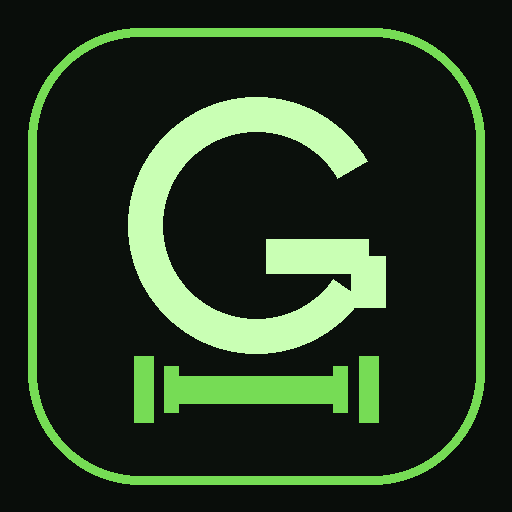
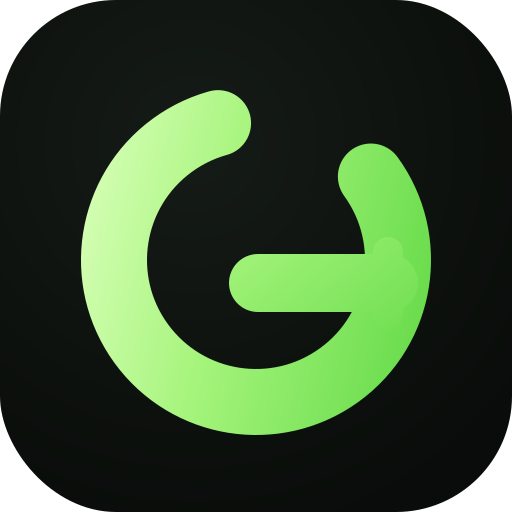
Add files via upload

diff --git a/app.js b/app.js
@@ -1036,11 +1036,11 @@ bodyHistoryModal=function(){
 
 
 /* ===== GYM v6.0 INDIVIDUAL ===== */
-const GYM_V60='6.0.0';
+const GYM_V60='6.1.0';
 let bodyChartPeriod='all';
 
 function brandMark(){
- return `<svg class="gym-mark" viewBox="0 0 120 120" role="img" aria-label="GYM"><rect x="3" y="3" width="114" height="114" rx="30" fill="#0b100c" stroke="#76dc55" stroke-width="4"/><path d="M76 35a30 30 0 1 0 5 39H61" fill="none" stroke="#c9ffb4" stroke-width="9" stroke-linecap="round"/><path d="M61 74h25" stroke="#c9ffb4" stroke-width="9" stroke-linecap="round"/><path d="M25 91h13m44 0h13M38 84v14m44-14v14M42 91h36" fill="none" stroke="#76dc55" stroke-width="7" stroke-linecap="round"/></svg>`;
+ return `<svg class="gym-mark" viewBox="0 0 120 120" role="img" aria-label="GYM"><defs><linearGradient id="gymBrandGradient" x1="25" y1="18" x2="96" y2="104" gradientUnits="userSpaceOnUse"><stop offset="0" stop-color="#d8ffb8"/><stop offset=".42" stop-color="#a5f47b"/><stop offset="1" stop-color="#63d947"/></linearGradient></defs><rect x="3" y="3" width="114" height="114" rx="30" fill="#0b100c"/><circle cx="60" cy="59" r="33" fill="none" stroke="url(#gymBrandGradient)" stroke-width="15" stroke-linecap="round" stroke-dasharray="168 55" transform="rotate(-36 60 59)"/><path d="M61 65h31" fill="none" stroke="url(#gymBrandGradient)" stroke-width="13" stroke-linecap="round"/><path d="M91 58v15" fill="none" stroke="url(#gymBrandGradient)" stroke-width="7" stroke-linecap="round"/></svg>`;
 }
 
 const normalizeStateV60Base=normalizeState;
@@ -1144,11 +1144,11 @@ function progressionDashboard(){
 
 function workoutElapsedSeconds(){if(!state.active)return 0;const now=state.active.pausedAt?+state.active.pausedAt:Date.now();return Math.max(0,Math.floor((now-(+state.active.startedAt||now)-(+state.active.pausedMs||0))/1000))}
 function pauseWorkoutV60(){if(!state.active)return;if(state.active.pausedAt){state.active.pausedMs=(+state.active.pausedMs||0)+(Date.now()-+state.active.pausedAt);state.active.pausedAt=null;toast('Treino retomado.')}else{state.active.pausedAt=Date.now();toast('Treino pausado.')}saveLocal();renderApp()}
-function liveWorkoutStatus(){const sec=workoutElapsedSeconds(),done=(state.active?.exercises||[]).reduce((n,e)=>n+(e.sets||[]).filter(s=>s.done).length,0),total=(state.active?.exercises||[]).reduce((n,e)=>n+(e.sets||[]).length,0);return `<div class="v6-workout-status"><div><small>${state.active?.pausedAt?'TREINO PAUSADO':'TEMPO DE TREINO'} · ${done}/${total} séries concluídas</small><b id="workoutLiveTime">${timeText(sec)}</b></div><button type="button" class="btn secondary sm" onclick="pauseWorkoutV60()">${state.active?.pausedAt?'Retomar':'Pausar'}</button></div>`}
+function liveWorkoutStatus(){const sec=workoutElapsedSeconds(),done=(state.active?.exercises||[]).reduce((n,e)=>n+(e.sets||[]).filter(s=>s.done).length,0),total=(state.active?.exercises||[]).reduce((n,e)=>n+(e.sets||[]).length,0);return `<div class="v61-workout-session"><div class="v61-session-time"><span>${state.active?.pausedAt?'Treino pausado':'Tempo da sessão'}</span><b id="workoutLiveTime">${timeText(sec)}</b></div><div class="v61-session-progress"><span>${done}/${total}</span><small>séries concluídas</small></div><button type="button" class="btn secondary sm" onclick="pauseWorkoutV60()">${state.active?.pausedAt?'Retomar':'Pausar'}</button></div>`}
 setInterval(()=>{const el=document.getElementById('workoutLiveTime');if(el&&state.active&&!state.active.pausedAt)el.textContent=timeText(workoutElapsedSeconds())},1000);
 
 const workoutScreenV60Base=workoutScreen;
-workoutScreen=function(){const html=workoutScreenV60Base();return state.active?liveWorkoutStatus()+html:html};
+workoutScreen=function(){const html=workoutScreenV60Base();if(!state.active)return html;const marker='✓ Salvamento automático ativo</p></section>';return html.includes(marker)?html.replace(marker,`✓ Salvamento automático ativo</p>${liveWorkoutStatus()}</section>`):html};
 
 const activeExerciseV60Base=activeExercise;
 activeExercise=function(x,ei){
@@ -1176,7 +1176,7 @@ const profileScreenV60Base=profileScreen;
 profileScreen=function(){
  let html=profileScreenV60Base(),prefs=exercisePrefs(),t=state.profile?.trainingPrefs||{};
  const block=`<div class="card"><h3>Avaliação e preferências</h3><p class="muted small">${t.experience==='beginner'?'Iniciante':t.experience==='advanced'?'Avançada':'Intermediária'} · ${t.preferredDuration||state.profile?.duration||60} min por treino · ${prefs.favorite.length} favoritos · ${prefs.avoid.length} evitados.</p><div class="grid grid2"><button class="btn secondary block" onclick="trainingAssessmentModal(false)">Atualizar avaliação</button><button class="btn ghost block" onclick="exercisePreferencesModal()">Favoritos e evitados</button></div></div>`;
- const anchor='<div class="card"><h3>Conta e sincronização</h3>';html=html.includes(anchor)?html.replace(anchor,block+anchor):html+block;html=html.replace(/GYM Premium v5\.18/g,'GYM v6.0 Individual');return html;
+ const anchor='<div class="card"><h3>Conta e sincronização</h3>';html=html.includes(anchor)?html.replace(anchor,block+anchor):html+block;html=html.replace(/GYM Premium v5\.18/g,'GYM v6.1 Individual');return html;
 };
 
 const reportsScreenV60Base=reportsScreen;

diff --git a/index.html b/index.html
@@ -1,13 +1,13 @@
 <!doctype html><html lang="pt-BR"><head>
 <meta charset="utf-8"><meta name="viewport" content="width=device-width,initial-scale=1,viewport-fit=cover">
-<meta name="theme-color" content="#0b100c"><meta name="msapplication-TileColor" content="#0b100c"><meta name="msapplication-TileImage" content="./icon-192.png"><meta name="format-detection" content="telephone=no"><meta name="mobile-web-app-capable" content="yes"><meta name="application-name" content="GYM"><meta name="apple-mobile-web-app-capable" content="yes"><meta name="apple-mobile-web-app-status-bar-style" content="black-translucent"><meta name="apple-mobile-web-app-title" content="GYM"><meta name="description" content="Treino adaptativo, recuperação muscular, cardio e relatórios.">
-<link rel="manifest" href="./manifest.json?v=6.0" crossorigin="use-credentials">
-<link rel="icon" type="image/x-icon" href="./favicon.ico?v=6.0">
-<link rel="icon" type="image/png" sizes="192x192" href="./icon-192.png?v=6.0">
-<link rel="icon" type="image/png" sizes="512x512" href="./icon-512.png?v=6.0">
-<link rel="shortcut icon" href="./favicon.ico?v=6.0">
-<link rel="apple-touch-icon" sizes="180x180" href="./apple-touch-icon.png?v=6.0">
-<link rel="stylesheet" href="styles.css?v=6.0"><title>GYM</title></head><body>
+<meta name="theme-color" content="#0b100c"><meta name="msapplication-TileColor" content="#0b100c"><meta name="msapplication-TileImage" content="./gym-icon-v61-192.png"><meta name="format-detection" content="telephone=no"><meta name="mobile-web-app-capable" content="yes"><meta name="application-name" content="GYM"><meta name="apple-mobile-web-app-capable" content="yes"><meta name="apple-mobile-web-app-status-bar-style" content="black-translucent"><meta name="apple-mobile-web-app-title" content="GYM"><meta name="description" content="Treino adaptativo, recuperação muscular, cardio e relatórios.">
+<link rel="manifest" href="./manifest.json?v=6.1" crossorigin="use-credentials">
+<link rel="icon" type="image/x-icon" href="./favicon.ico?v=6.1">
+<link rel="icon" type="image/png" sizes="192x192" href="./gym-icon-v61-192.png?v=6.1">
+<link rel="icon" type="image/png" sizes="512x512" href="./gym-icon-v61-512.png?v=6.1">
+<link rel="shortcut icon" href="./favicon.ico?v=6.1">
+<link rel="apple-touch-icon" sizes="180x180" href="./gym-icon-v61-180.png?v=6.1">
+<link rel="stylesheet" href="styles.css?v=6.1"><title>GYM</title></head><body>
 <svg class="svg-sprite" aria-hidden="true"><defs>
 <symbol id="i-home" viewBox="0 0 24 24"><path d="M3 11 12 3l9 8v9a1 1 0 0 1-1 1h-5v-7H9v7H4a1 1 0 0 1-1-1z"/></symbol>
 <symbol id="i-workout" viewBox="0 0 24 24"><path d="M6 8v8M3 10v4M18 8v8M21 10v4M6 12h12"/></symbol>
@@ -22,4 +22,4 @@
 <symbol id="i-plus" viewBox="0 0 24 24"><path d="M12 5v14M5 12h14"/></symbol><symbol id="i-logout" viewBox="0 0 24 24"><path d="M10 17l5-5-5-5M15 12H3M15 4h5a1 1 0 0 1 1 1v14a1 1 0 0 1-1 1h-5"/></symbol>
 </defs></svg>
 <div id="toast" class="toast"></div><div id="app"></div>
-<script src="https://cdn.jsdelivr.net/npm/@supabase/supabase-js@2"></script><script src="config.js"></script><script src="exercise-images.js?v=6.0"></script><script src="app.js?v=6.0"></script></body></html>
+<script src="https://cdn.jsdelivr.net/npm/@supabase/supabase-js@2"></script><script src="config.js"></script><script src="exercise-images.js?v=6.1"></script><script src="app.js?v=6.1"></script></body></html>

diff --git a/styles.css b/styles.css
@@ -244,3 +244,15 @@ body{background:radial-gradient(circle at 75% -10%,rgba(118,220,85,.08),transpar
 @media(max-width:620px){.v6-kpi-grid,.calendar-stats{grid-template-columns:repeat(3,minmax(0,1fr))}.exercise-progress-strip{grid-template-columns:1fr 1fr 1fr}.assessment-grid{grid-template-columns:1fr}}
 @media(max-width:390px){.v6-kpi-grid{grid-template-columns:1fr 1fr}.v6-before-after{grid-template-columns:1fr}.v6-before-after i{display:none}.exercise-progress-strip{grid-template-columns:1fr 1fr}.exercise-progress-strip>div:last-child{grid-column:1/-1}}
 /* ===== fim GYM v6.0 ===== */
+
+
+/* ===== GYM v6.1 — ícone e tempo da sessão ===== */
+.premium-logo-small,.auth-logo.premium-logo{box-shadow:0 0 0 1px rgba(118,220,85,.20),0 12px 32px rgba(62,196,52,.12)!important}
+.v6-workout-status{display:none!important}
+.v61-workout-session{display:grid;grid-template-columns:minmax(0,1fr) auto auto;align-items:center;gap:12px;margin-top:16px;padding:12px 13px;border:1px solid rgba(118,220,85,.22);border-radius:17px;background:rgba(8,12,9,.48);backdrop-filter:blur(8px)}
+.v61-session-time,.v61-session-progress{display:grid;gap:2px;min-width:0}
+.v61-session-time span,.v61-session-progress small{font-size:10px;color:var(--muted);text-transform:uppercase;letter-spacing:.08em;font-weight:800}
+.v61-session-time b{font-size:22px;color:var(--accent2);font-variant-numeric:tabular-nums;line-height:1.05}
+.v61-session-progress span{font-size:16px;color:var(--ink);font-weight:900;line-height:1.05}
+@media(max-width:390px){.v61-workout-session{grid-template-columns:1fr auto;gap:9px}.v61-session-progress{display:none}.v61-workout-session .btn{padding:10px 12px}}
+/* ===== fim do patch v6.1 ===== */

diff --git a/service-worker.js b/service-worker.js
@@ -1,7 +1,7 @@
-const CACHE='gym-v6-0-individual';
+const CACHE='gym-v6-1-icon-timer-fix';
 const CORE=[
   './','./index.html','./styles.css','./app.js','./exercise-images.js','./manifest.json','./manifest.webmanifest',
-  './icon-192.png','./icon-512.png','./icon-maskable-512.png','./apple-touch-icon.png','./favicon.png','./favicon.ico',
+  './gym-icon-v61-192.png','./gym-icon-v61-512.png','./gym-icon-v61-maskable-512.png','./gym-icon-v61-180.png','./favicon.png','./favicon.ico',
   './assets/icon-96.png','./assets/icon-128.png','./assets/icon-144.png','./assets/icon-152.png','./assets/icon-192.png','./assets/icon-256.png','./assets/icon-384.png','./assets/icon-512.png','./assets/icon-maskable-512.png',
   './assets/apple-touch-icon.png','./assets/favicon.png','./assets/favicon.ico'
 ];

diff --git a/README.md b/README.md
@@ -26,3 +26,9 @@ Evolução corporal ampliada, calendário, recordes, reavaliação de ciclo, equ
 
 ## GYM v6.0 Individual
 Atualização individual com nova identidade neutra, evolução corporal avançada, progressão inteligente, preferências por exercício, calendário, cronômetro de sessão e reavaliação de ciclo. A modalidade professor/aluno permanece fora desta versão.
+
+
+## v6.1 Individual
+- Novo ícone do app e do PWA.
+- Tempo da sessão integrado ao cabeçalho do treino, sem painel solto no topo.
+- Cache/manifesto atualizados para melhorar a troca do ícone instalado.
